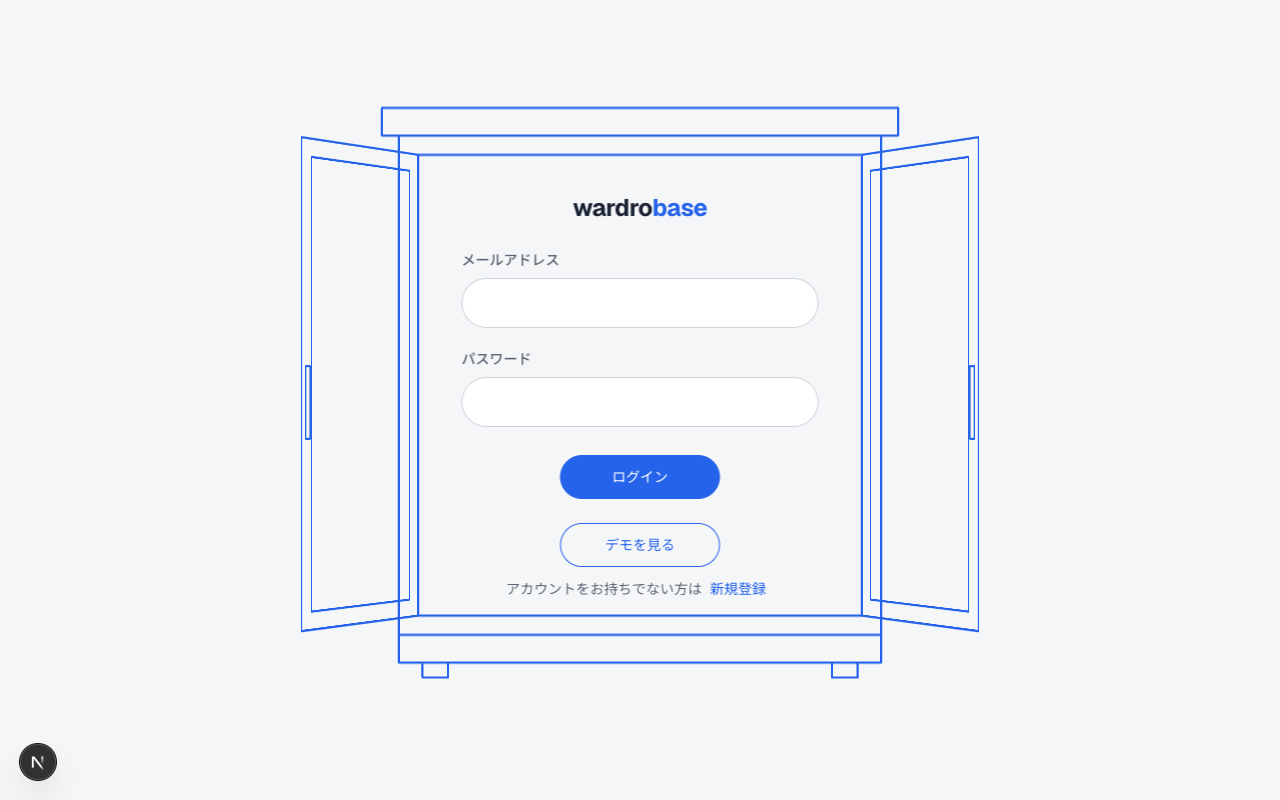
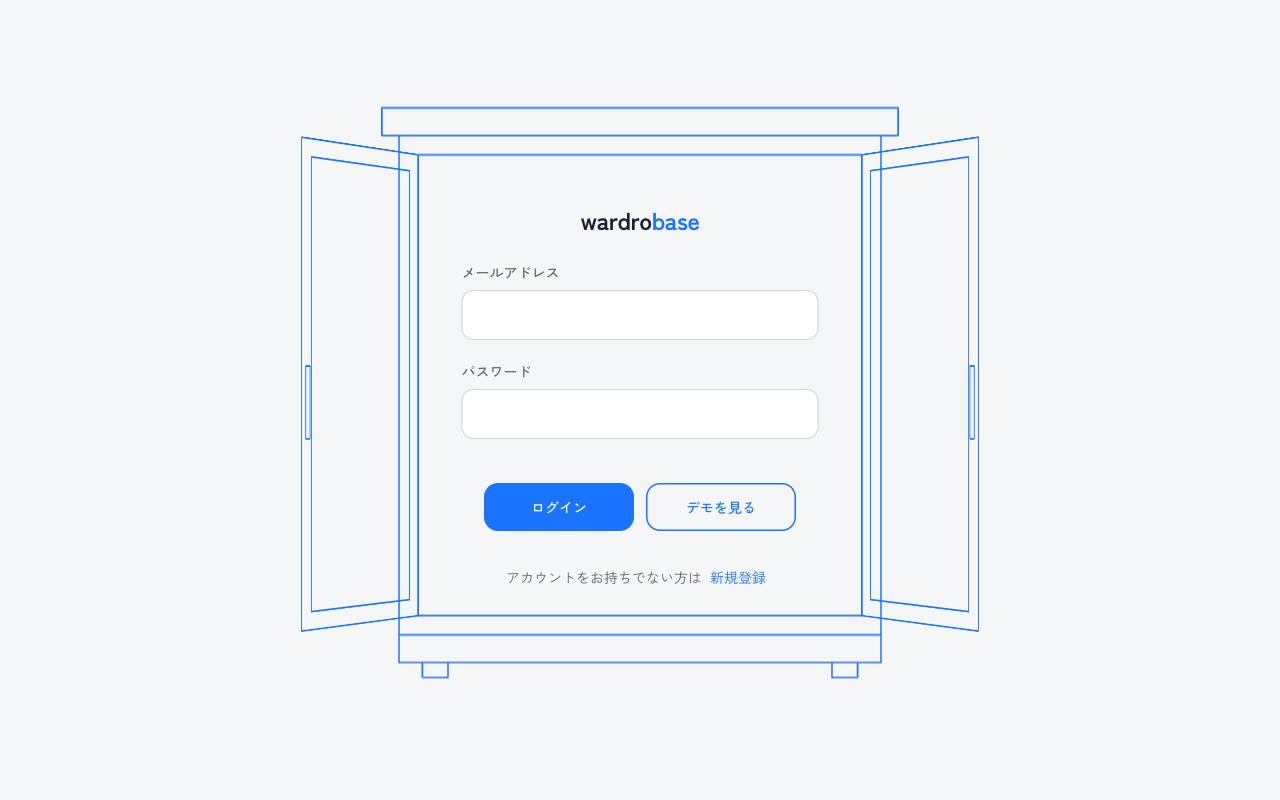
docs: 説明文とスクリーンショットを新しいデザインに更新する

diff --git a/README.md b/README.md
@@ -18,19 +18,19 @@
 
 ### ワードローブ
 
-登録した服をグリッドで一覧化します。カテゴリ・色・季節での絞り込みと、ブランド・メモのキーワード検索ができます。
+登録した服を写真ファーストのグリッドで一覧化します。件数付きチップによるカテゴリ絞り込み、シーズン（SS / AW）絞り込み、名前・ブランド・メモのキーワード検索ができます。
 
 ![ワードローブ一覧](.github/screenshots/wardrobe.png)
 
 ### コーデ記録
 
-「その日に実際に着たコーデ」を記録します。保存済みスタイリングから 1 回の選択で起こすこともできます。記録はルックブック（本）として振り返ります。
+「その日に実際に着たコーデ」を記録します。保存済みスタイリングから 1 回の選択で起こすこともできます。記録は日付を添えたタイムラインで新しい順に振り返ります。
 
 ![コーデ記録](.github/screenshots/outfits.png)
 
 ### ログイン
 
-クローゼットの扉が開いてアプリが始まる、線画の演出を採用しています。この「細い青線の線画」はクローゼット・ルックブックにも通底するデザイン言語です。
+クローゼットの扉が開いてアプリが始まる、線画の演出を採用しています。この「細い青線の線画」はスタイリングボードのクローゼットにも通底するデザイン言語です。
 
 ![ログイン画面](.github/screenshots/login.png)
 
